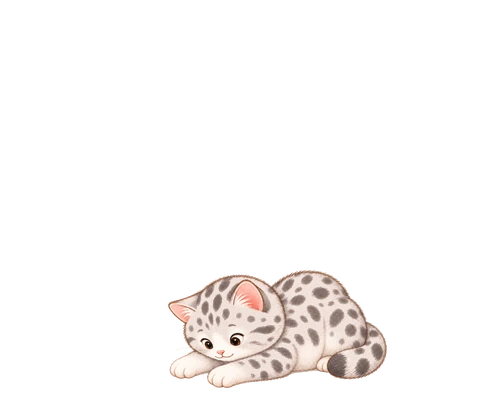
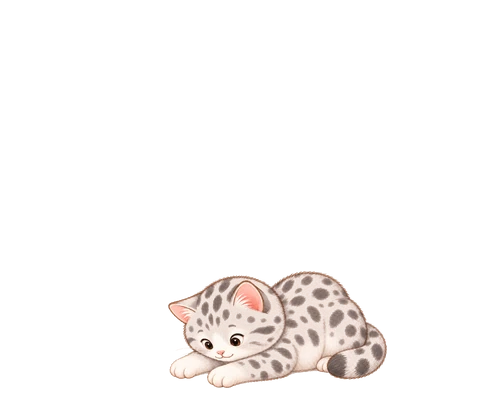
Add ashan and mishmish; all cats eat at the food spot; fix temari ball jump
- new cats: ashan (smoke, rarity .65, likes bolster/temari-ball-blue, gift
  [2,4]) and mishmish (apricot, rarity .4, likes mochibunny/bolster, gift
  [4,6]), placed in the rarity gaps and given the items nobody favoured yet.
  Adds their pose art, belly2 CAT_HUG entries and SELFIE_POSES counts.
- FOOD_CAT_POOL now lists every cat with full (eating) art: 18 cats, up from 7.
  check_art.py errors on a pool cat with no full.webp and warns on a cat that
  has full art but is not in the pool.
- temari-ball and temari-ball-blue: floor scale 0.425 -> 0.3864 so the ball is
  the same size on the floor and in a cat's arms, and hugAnchored so a hugging
  cat is placed around the ball instead of the ball jumping and shrinking.
  Verified identical ball position/size with and without a cat for five cats.
- adding two cats shifted the roster medians for lie/belly1 slightly, so
  namer lie, shoko belly1 and tchelet belly1 re-rendered by sub-pixel amounts.
- HANDOFF-RYOKAN.md: new cats, add-a-cat checklist, hug anchoring, food pool.

Claude-Session: https://claude.ai/code/session_015hKkg8pSnYHPvwYxgS8zhU

diff --git a/index.html b/index.html
@@ -470,9 +470,10 @@
   // measurement (too high, sitting up on the shelf) at the 763x1357 test-window render used to
   // check it -- see HANDOFF-RYOKAN.md's px-to-percent note.
   const FOOD_CAT_SPOT = { room: 'shokudo', x: 16.3, y: 49.9 };
-  // Cats with 'full' (eating) pose art -- every cat now has one except zohar/nitzan, whose
-  // `only` gating (see CATS) keeps them off every spot but their own lantern/sakura-vase anyway.
-  const FOOD_CAT_POOL = ['tapuz', 'pilpel', 'sheleg', 'dvash', 'shoko', 'rimon', 'kokhav'];
+  // Cats with 'full' (eating) pose art -- every cat except nitzan/mattu, the `only`-gated rare cats (see CATS),
+  // who have no full art. tools/check_art.py flags a cat that gains full art but isn't listed here.
+  const FOOD_CAT_POOL = ['tapuz', 'pilpel', 'sheleg', 'dvash', 'shoko', 'rimon', 'kokhav', 'zayit', 'kafe', 'namer', 'tchelet', 'barzel',
+    'kinamon', 'lilach', 'silan', 'zohar', 'ashan', 'mishmish'];
   // Cats with more than one 'full' frame (tapuz-full.png + tapuz-full-2.png), picked at random per
   // visit rather than stuck with one forever -- same idea as a selfie's pose (see randomPose).
   const FULL_FRAMES = { tapuz: 2 };
@@ -617,8 +618,10 @@
     // cat's body and a second paws overlay instead of at its own normal baseline position -- see
     // catLayer. Now that CAT_HUG covers most of the roster (see its own comment), belly2 is a full
     // second pose here, not just the barzel-only test it started as.
-    'temari-ball': { room: 'engawa', ja: '桜毬', tr: 'sakura mari', en: 'flowered thread ball', price: 180, pose: 'lie', poses: ['lie', 'belly2'], hugged: true, wobble: true, wobbleDeg: 13, scale: 0.425, thumbScale: 0.5, thumbShiftY: 20, cat: { x: 79.97, y: 81.4 } },
-    'temari-ball-blue': { room: 'engawa', ja: '青毬', tr: 'ao mari', en: 'blue thread ball', price: 180, pose: 'lie', poses: ['lie', 'belly2'], hugged: true, wobble: true, wobbleDeg: 13, scale: 0.425, thumbScale: 0.5, thumbShiftY: 20, cat: { x: 79.97, y: 81.4 } },
+    // temari balls: scale 0.3864 is the hugged size (CAT_HUG's w 38.64 at hugScale 1), so the ball is the same size on
+    // the floor and in a cat's arms, and hugAnchored places the cat around the ball's resting position so it doesn't jump.
+    'temari-ball': { room: 'engawa', ja: '桜毬', tr: 'sakura mari', en: 'flowered thread ball', price: 180, pose: 'lie', poses: ['lie', 'belly2'], hugged: true, hugAnchored: true, wobble: true, wobbleDeg: 13, scale: 0.3864, thumbScale: 0.5, thumbShiftY: 20, cat: { x: 79.97, y: 81.4 } },
+    'temari-ball-blue': { room: 'engawa', ja: '青毬', tr: 'ao mari', en: 'blue thread ball', price: 180, pose: 'lie', poses: ['lie', 'belly2'], hugged: true, hugAnchored: true, wobble: true, wobbleDeg: 13, scale: 0.3864, thumbScale: 0.5, thumbShiftY: 20, cat: { x: 79.97, y: 81.4 } },
     // belly1: the cat lies on its back underneath the flag, batting up at it.
     // fish: measured directly from the shared raw canvas before koinobori-stand.png/koinobori-fish.png
     // were split apart, so it lines back up with the pole exactly (see itemLayers' `fish`). origin is
@@ -653,6 +656,11 @@
     kinamon: { tr: 'Kinamon', en: 'cinnamon', rarity: .85, likes: { takoyaki: 3, taiyaki: 2 }, gift: [1, 3] },
     lilach: { tr: 'Lilach', en: 'lilac', rarity: .85, likes: { gym: 3, koinobori: 2 }, gift: [1, 3] },
     silan:  { tr: 'Silan', en: 'date syrup', rarity: .85, likes: { 'temari-ball': 3, eggs: 2 }, gift: [1, 3] },
+    // The two newest cats were placed in the rarity gaps (0.5-0.85 and 0.25-0.5) with gifts to match, and given the
+    // items nobody favoured yet (bolster, mochibunny, temari-ball-blue). Gift ranges follow the existing ladder
+    // (0.85 -> [1,3], rimon 0.5 -> [3,5], kokhav 0.25 -> [5,8]).
+    ashan:  { tr: 'Ashan', en: 'smoke', rarity: .65, likes: { bolster: 3, 'temari-ball-blue': 2 }, gift: [2, 4] },
+    mishmish: { tr: 'Mishmish', en: 'apricot', rarity: .4, likes: { mochibunny: 4, bolster: 2 }, gift: [4, 6] },
     // Common tier now that she's not lantern-only any more -- see pickCat() for how `likes` weights
     // a visit; lantern stays her favourite but she can show up anywhere like any other common cat.
     zohar:  { tr: 'Zohar', en: 'light', rarity: .85, likes: { lantern: 5 }, gift: [1, 3] },
@@ -732,7 +740,7 @@
   };
   // How many selfie poses each trippable cat has art for (raw/polaroids/cat-<cat><n>.png -> process_art.py).
   // A trip photo picks one of these at random (see randomPose) so the book doesn't look monotonous.
-  const SELFIE_POSES = { tapuz: 3, pilpel: 2, sheleg: 2, dvash: 2, shoko: 2, rimon: 2, kokhav: 2, zayit: 2, kafe: 2, namer: 1, tchelet: 1, barzel: 1, kinamon: 1, zohar: 2, lilach: 1, silan: 2 };
+  const SELFIE_POSES = { tapuz: 3, pilpel: 2, sheleg: 2, dvash: 2, shoko: 2, rimon: 2, kokhav: 2, zayit: 2, kafe: 2, namer: 1, tchelet: 1, barzel: 1, kinamon: 1, zohar: 2, lilach: 1, silan: 2, ashan: 1, mishmish: 2 };
   const randomPose = (catId) => 1 + Math.floor(Math.random() * (SELFIE_POSES[catId] || 1));
   // Stamps: a second, smaller day-trip collectible -- one per destination (not per cat), see
   // state.stamps. Every trip home still guarantees its polaroid; on top of that there's a
@@ -923,12 +931,14 @@
   // items with `hugged: true` use this (see spotHtml, which otherwise draws the item at its own normal
   // baseline position in the spot).
   const CAT_HUG = {
+    'ashan-belly2': { left: 37.51, top: 42.01, w: 38.64 },
     'barzel-belly2': { left: 37.51, top: 42.01, w: 38.64 },
     'dvash-belly2': { left: 37.51, top: 42.01, w: 38.64 },
     'kafe-belly2': { left: 36.26, top: 44.51, w: 38.64 },
     'kinamon-belly2': { left: 37.51, top: 42.01, w: 38.64 },
     'kokhav-belly2': { left: 37.51, top: 42.01, w: 38.64 },
     'lilach-belly2': { left: 37.51, top: 42.01, w: 38.64 },
+    'mishmish-belly2': { left: 37.51, top: 42.01, w: 38.64 },
     'namer-belly2': { left: 37.51, top: 42.01, w: 38.64 },
     'pilpel-belly2': { left: 37.51, top: 44.51, w: 38.64 },
     'rimon-belly2': { left: 37.51, top: 42.01, w: 38.64 },

diff --git a/tools/check_art.py b/tools/check_art.py
@@ -183,6 +183,17 @@ def run_checks(log=print):
              f'READY_POSES, not the cat\'s art, so a visitor given that pose would show a broken image unless '
              f'something else filters them out')
 
+    # -- food pool: every non-`only` cat with full (eating) art should be able to eat at the food spot --
+    pool = set(str_list(const_body(js, 'FOOD_CAT_POOL')))
+    for cid in sorted(pool):
+        if cid not in cats:
+            err(f'FOOD_CAT_POOL has "{cid}", which is not in CATS')
+        elif not exists(f'cats/{cid}/full.webp'):
+            err(f'FOOD_CAT_POOL has "{cid}" but cats/{cid}/full.webp is missing (broken image at the food spot)')
+    for cid in cats:
+        if cid not in pool and not re.search(r'\bonly\s*:', cats[cid]) and exists(f'cats/{cid}/full.webp'):
+            warn(f'cat {cid}: has full art but is not in FOOD_CAT_POOL, so it never eats at the food spot')
+
     # -- hug / tail overlays --
     for key in hug:
         cid, _, pose = key.partition('-')

diff --git a/HANDOFF-RYOKAN.md b/HANDOFF-RYOKAN.md
@@ -20,7 +20,7 @@ I'm continuing work on "Neko Ryokan", a Neko Atsume-style cat game, a static sit
 - Study desk: in the tatami room, opens hwg/Word builder, hbt/Interlinear practice, hsvb/Strong verb builder, and hwvb/Weak verb builder in an iframe (STUDY array in index.html), fish come back via postMessage. The desk sits above the spots in z-index — the spots are large transparent buttons and were eating the desk's taps before that fix.
 - XL baths (clay, hex, hinoki): each takes a row of two spots and draws at their shared midpoint, scaled 2x from transform-origin 50% 90%. They sit on a diagonal, not stacked — top row at x 32%, bottom row at x 70% (XL_X), both 6% lower than the row's natural midpoint (XL_DROP) to clear the painted pool in the background art. The stone bath (onsen-stone) was removed from the shop entirely and its art (raw and processed) deleted.
 - Food: a new layer, separate from the dining room's four sittable props (onigiri etc). Set out at FOOD_SPOT, one fixed position on the open dining-room floor (not one of its four item spots), marked, when empty, by an amber dashed-oval empty-mark (there is no placemat art any more — objects/food-mat.webp and its raw were deleted; see the "Food spot's placemat" bullet below). It still needed z-index:95 like the desk, since a nearby regular spot's much bigger invisible button box would otherwise swallow its taps (same bug class as the desk fix) — keep this even though the mat now makes the spot visually obvious, the click-hitbox issue is unrelated to visibility. state.food is `{ id, expiresAt } | null`; it's eaten up (removed from state.owned, and state.food set to null) once Date.now() passes expiresAt, checked in simulate() the same way visitor departures are. Putting food away before it expires keeps it owned but forgets the remaining time — placing it again starts a fresh full duration. Only one food item can be owned-and-placed at a time since there's only one spot; buying/multiple ownership ahead of placing is fine, they just queue in the Bag. The shop gives food its own page (SHOP_SECTIONS in index.html), inserted right after the dining room's regular-items page, rather than mixing food into that page or using tabs — see sectionFor() for mapping a game room to its shop page index. All six planned items are in now (ochazuke, yakitori, tempura, chirashizushi/chirashi, unadon, kaiseki) — tamagoyaki is the only one still missing art. **Cats only visit while food is out** (implemented): `simulate()` works out how much of the elapsed time span had food on the spot (`fedFrom`/`fedTo`, captured BEFORE the expiry block clears `state.food`, so a tick that runs after the food ran out still credits the part of the time it was out) and only rolls arrivals inside that window (`fed`/`fedStart`); no food, no new visitors, including after a long offline catch-up. Visitors already on an item leave on their normal timer when the food runs out. Rare `only` cats follow the same rule. The "Summon cats" dev button deliberately bypasses it. Starter food: `gohan` (ご飯, a bowl of rice with an umeboshi; `price: 0`, 60 min, in-room `scale: 0.525` = 70% of the other foods' 0.75; every food duration was multiplied by 6 when gohan went from 10 to 60 min, so gohan is still the shortest) is free and rebuyable once eaten (it is removed from the Bag on expiry like any food); every save gets one free `gohan` once (`foodStarter` flag, granted in `load()` — note it is only persisted on the next save), and the shop shows "Free" for any `price: 0` item. The welcome toast tells new players to put the rice out.
-- Food visitors: a cat CAN now pose at the food spot, eating (`full` pose) — this is separate from state.food's expiry logic above. `state.foodVisitor` (set/cleared independently of `state.foodVisitor`/`state.spots`) is populated by `pickFoodCat`/`pickFullPose` whenever food is out and the spot is unoccupied; the "Summon cats" dev button was originally wired only to the four regular item spots and silently never touched the food spot at all (bug report: "I put out food and summoned cats but no one came"), fixed by adding a food-spot branch to the Summon cats handler. `FOOD_CAT_POOL` lists which cats can be picked to eat — widened from `['tapuz']` to every cat with rendered `full`-pose art (`['tapuz', 'pilpel', 'sheleg', 'dvash', 'shoko', 'rimon', 'kokhav']`) once the pipeline produced that art for the rest of the roster; zohar/nitzan/mattu are correctly excluded (no `full` art yet, and `only`-gated to their own items anyway).
+- Food visitors: a cat CAN now pose at the food spot, eating (`full` pose) — this is separate from state.food's expiry logic above. `state.foodVisitor` (set/cleared independently of `state.foodVisitor`/`state.spots`) is populated by `pickFoodCat`/`pickFullPose` whenever food is out and the spot is unoccupied; the "Summon cats" dev button was originally wired only to the four regular item spots and silently never touched the food spot at all (bug report: "I put out food and summoned cats but no one came"), fixed by adding a food-spot branch to the Summon cats handler. `FOOD_CAT_POOL` lists which cats can be picked to eat — now every cat with `full`-pose art (all 18 non-`only` cats, including zohar, ashan and mishmish); only nitzan/mattu are excluded (no `full` art, and `only`-gated to their own items anyway). `tools/check_art.py` errors if a pool cat has no `full.webp` and warns if a cat has one but isn't in the pool, so keep the list in step when a cat gains `full` art.
 - Food art lesson: don't ask for steam/smoke in a food item's own prompt. It doesn't cut out cleanly against the flat grey backdrop (same reason the onsen prompts already said "no steam") and leaves a grey smudge baked into the item — happened twice (yakitori, ochazuke) before the shared food item prompt block got an explicit "no steam, no smoke, no haze" rule. If a food item ever looks smudged, check whether its raw art has painted steam before assuming it's a cutout bug.
 - process_item() now auto-detects raw art that's already genuinely transparent (pre_cut_rgba() in tools/process_art.py: real alpha channel with some value below 250, not just an unused opaque one) and skips cut_out() entirely for it — no per-item list to maintain, it just checks each file. Useful when raw files come pre-cut instead of needing background removal.
 - Watch for raw PNGs that only *look* transparent in a preview but are actually opaque RGB with a checkerboard pattern and/or a faint watermark baked into the pixels — this happens when an art tool exports its transparency-preview checkerboard instead of real alpha (e.g. an unlicensed/demo export). `Image.open(path).mode` reports 'RGB' (no 'A') for these, unlike a real cutout ('RGBA'). Hit this with two reuploads (yakitori.png, chirashi.png) that looked fine in a thumbnail but produced a visible grey checker patch once composited — pre_cut_rgba() correctly skipped them (no alpha to detect) but cut_out()'s single-backdrop-colour model can't cleanly remove a two-tone checker pattern that shares pixel values with the real subject, so don't try to special-case a threshold fix: ask for a clean re-export with genuine alpha instead, the same way steam/smoke asks for a redo rather than a pipeline workaround.
@@ -76,7 +76,8 @@ I'm continuing work on "Neko Ryokan", a Neko Atsume-style cat game, a static sit
 - mcp__claude-in-chrome__resize_window did not actually change the real viewport in this environment (innerWidth/innerHeight stayed put even after a "successful" resize). To test two screen sizes, load the page in two same-origin iframes of different pixel sizes instead and measure inside each.
 
 ## Open items
-- Six of the eight newly-named cats (zayit, kafe, namer, tchelet, barzel, kinamon) now have full `CATS` entries (rarity/likes/gift) and are live in `CAT_ORDER`. **Lilach and silan still don't** — they have belly1/belly2/full art processed and (for silan) the hug pose wired, but no `CATS` entry, so `CAT_ORDER = Object.keys(CATS)` never includes them and they can't appear as visitors at all yet. Needs an id/rarity/likes/gift decision for each before they're playable. (namer's likes are now just `onsen-clay: 2` since taiyaki-xl was removed — give it a second favourite if wanted.)
+- All eight newly-named cats now have `CATS` entries and are live in `CAT_ORDER` (zayit, kafe, namer, tchelet, barzel, kinamon, lilach, silan). Two more were added after them: **ashan** (smoke, dark tabby, rarity .65, likes bolster 3 / temari-ball-blue 2, gift [2,4]) and **mishmish** (apricot, dilute calico, rarity .4, likes mochibunny 4 / bolster 2, gift [4,6]), placed in the rarity gaps (0.5-0.85, 0.25-0.5) with gifts following the ladder (0.85 -> [1,3], rimon .5 -> [3,5], kokhav .25 -> [5,8]) and given the items nobody favoured yet. A new cat needs: raw poses (sit at minimum; belly2 + belly2-paws for hugging), a `CATS` entry, a `CAT_HUG` entry for belly2 (copy the shared `left 37.51, top 42.01, w 38.64`, then check visually), a `SELFIE_POSES` count matching `raw/polaroids/cat-<id><n>.png`, and a `FOOD_CAT_POOL` entry if it has `full` art.
+- Hug anchoring (`hugAnchored`, in `catLayer`): a hugged item (bolster, temari-ball, temari-ball-blue) stays exactly where it rests on the floor when a cat hugs it; the CAT is placed around it instead of the item jumping to the paws. It needs the item's floor `scale` to equal its hugged size (`CAT_HUG` w x `hugScale`, both as a share of the spot), which is why the bolster is `scale 0.85` (w 38.64 x hugScale 2 x catScale 1.1) and the balls are `scale 0.3864` (w 38.64 x hugScale 1). Verified by measuring the item's rect with and without a cat for several cats: identical. Any new hugged item should set `hugged`, `hugAnchored`, and a `scale` matching its hug size. (The balls' floor wobble rotates the image, so a measured bounding box reads larger mid-wobble; compare at rest.)
 - Per-room colour/light matching for sprites (a per-room CSS filter or tint so generated item/cat art blends with each room's palette, plus deliberately painting dappled window-light across sprites standing in it, not just the floor) was discussed alongside the shadow/reflection work but explicitly deferred — the user chose to leave the current look as-is rather than build this now. Revisit only if asked.
 - Hinoki bath's water/steam technically animate the same as hex and clay, but are much harder to see because its water art has no bright highlight to catch the shimmer/steam against — hex and clay both have a glint. Options discussed: a stronger animation just for hinoki, or a highlight added to its art. Neither done yet.
 - Desk position (left/bottom + cqw/cqh nudge) was fixed to be screen-size-independent, but only checked at two iframe sizes, not the user's real phone.
